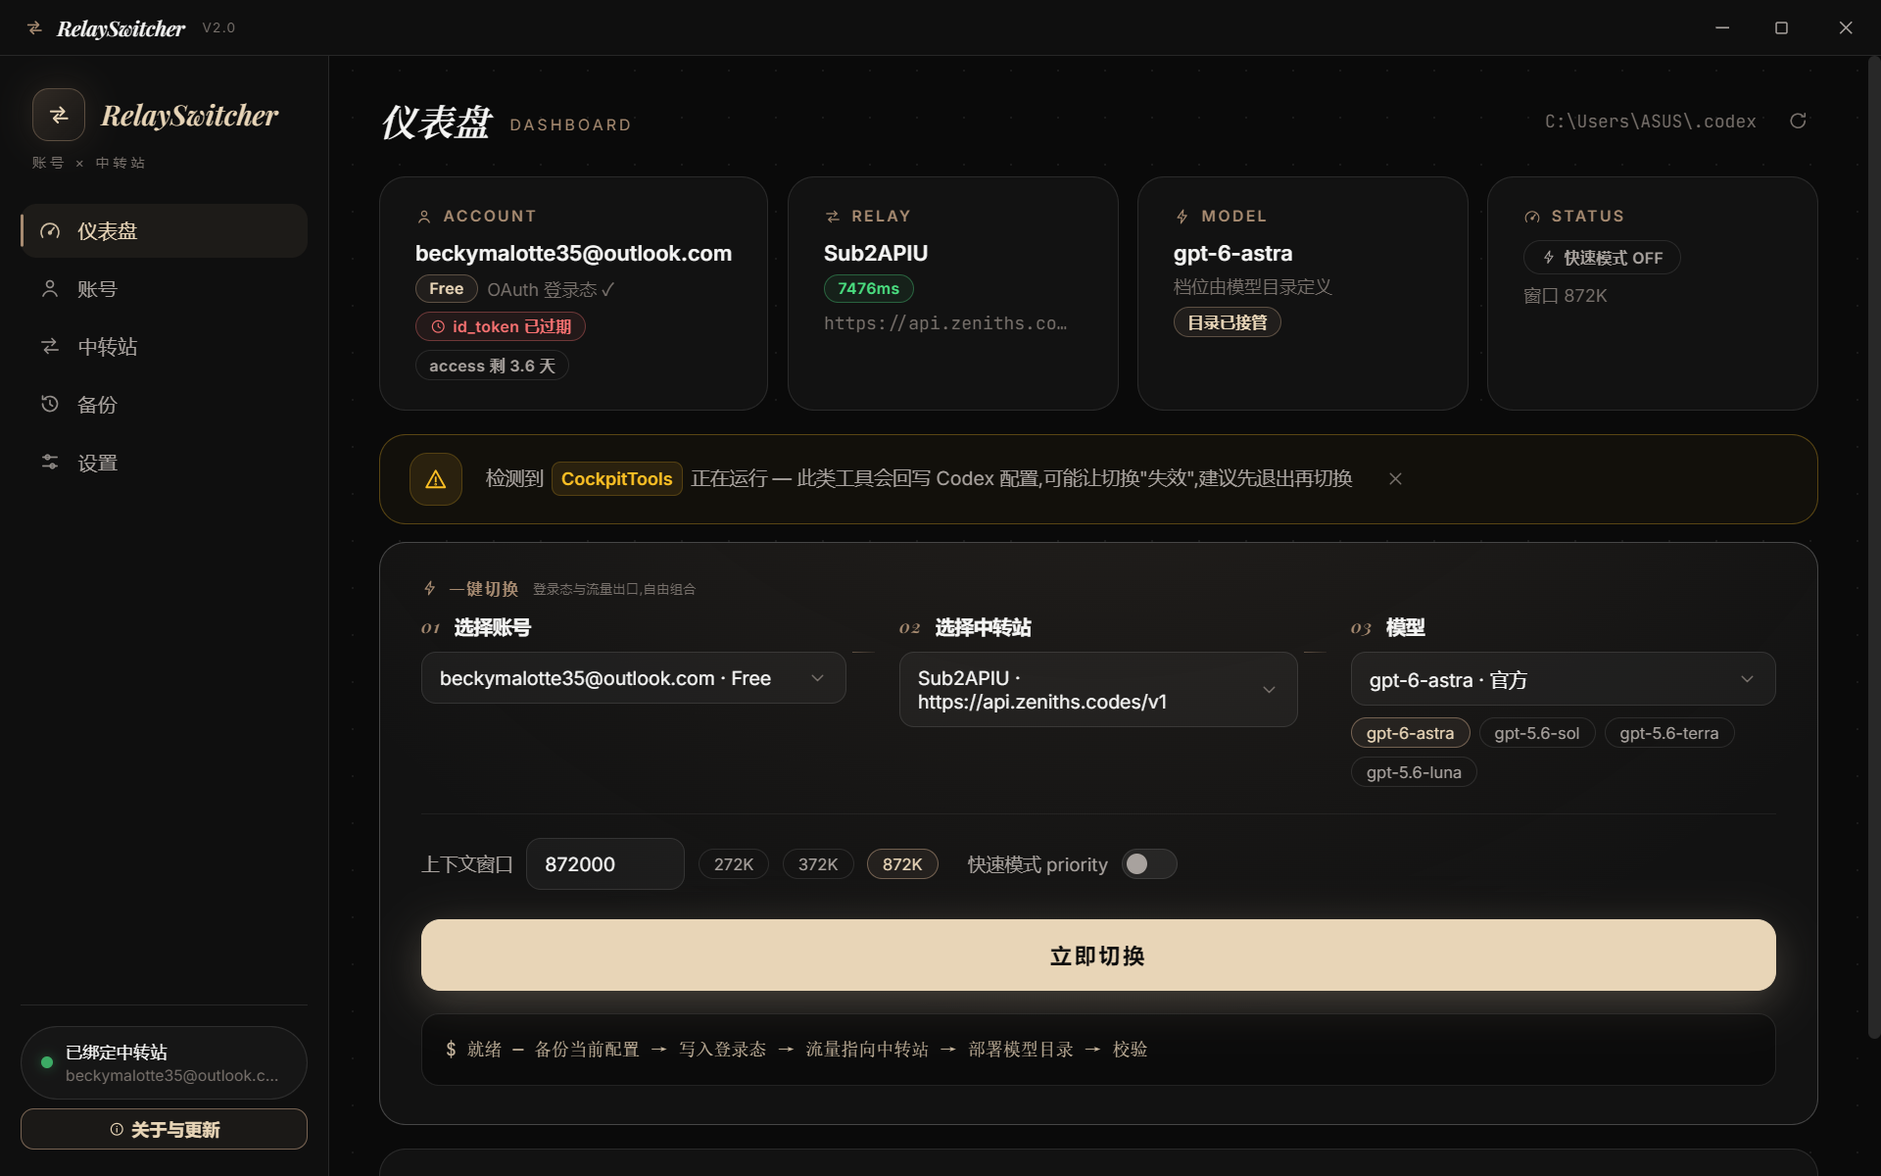
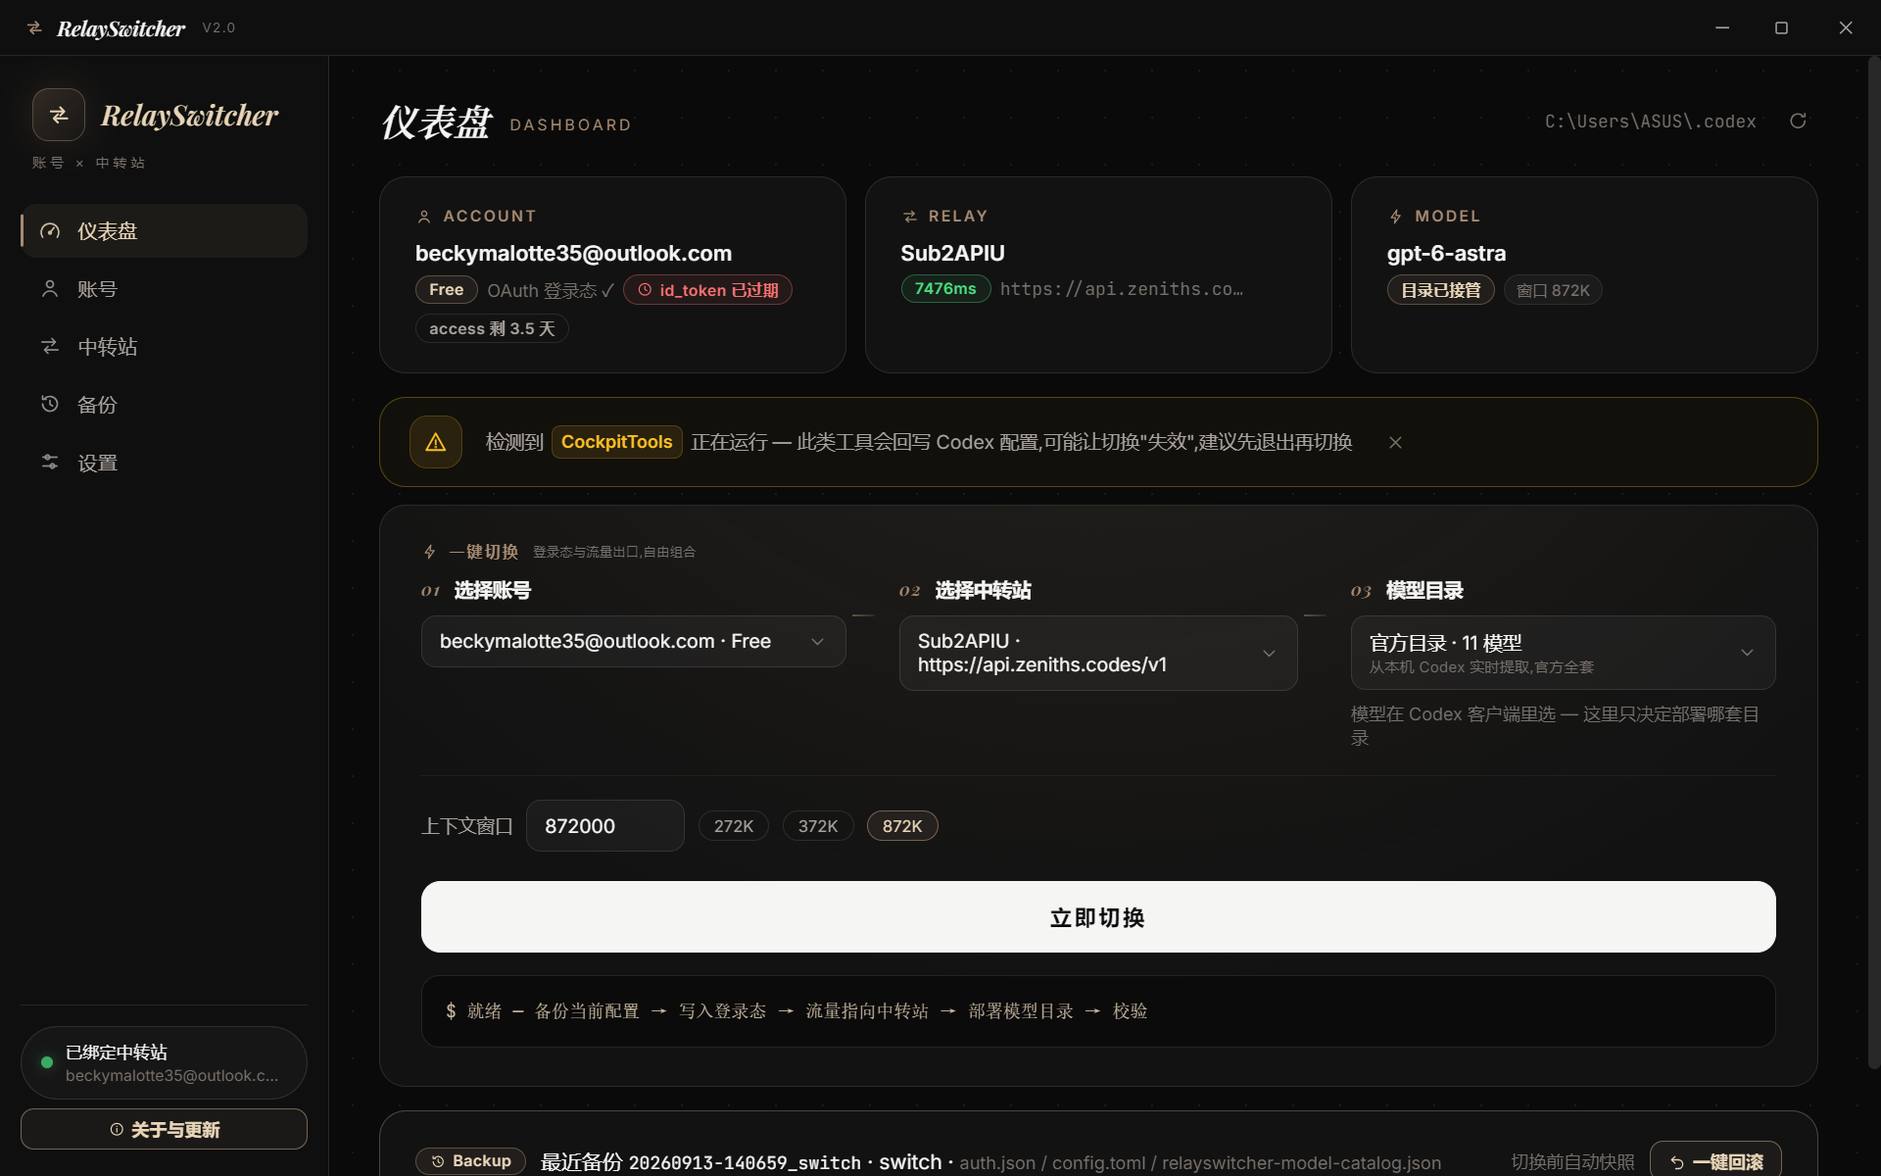
feat(v1.8.0): 切换即切目录 — 官方目录×中转目录(/v1/models 自动生成,家族模板匹配) + model 保留逻辑 + 官方目录自动跟进

diff --git a/electron/main.js b/electron/main.js
@@ -7,8 +7,9 @@ const codex = require('./lib/codex');
 const { extractTokenError } = require('./lib/oauth-errors');
 const { findRivalProcesses } = require('./lib/rival-guard');
 const { diffCatalogSlugs } = require('./lib/catalog-diff');
-const { extractToFile } = require('./lib/catalog-extract');
+const { extractToFile, locateCodexBinary } = require('./lib/catalog-extract');
 const { mergeCustomModels } = require('./lib/catalog-merge');
+const { buildRelayCatalog } = require('./lib/relay-catalog');
 
 const isDev = !!process.env.VITE_DEV;
 const SMOKE = process.argv.includes('--smoke');
@@ -58,7 +59,8 @@ function getState() {
     accounts, relays,
     settings: store.getSettings(),
     status: { ...status, activeRelay, activeAccount },
-    catalogBundled: fs.existsSync(path.join(resourcesDir(), 'model-catalog.json'))
+    catalogBundled: fs.existsSync(path.join(resourcesDir(), 'model-catalog.json')),
+    catalogCounts: { official: catalogOfficialCount() }
   };
 }
 
@@ -90,8 +92,8 @@ async function testRelay(id) {
 }
 
 /* ---------------- 一键切换 ---------------- */
-/** 目录源解析(US-01):内置快照 或 最新提取产物,再合并自定义模型(US-02) */
-function resolveCatalogContent() {
+/** 官方目录源解析:内置快照 或 最新提取产物 */
+function resolveOfficialCatalog() {
   const s = store.getSettings();
   let srcPath = path.join(resourcesDir(), 'model-catalog.json');
   if (s.catalogMode === 'extracted') {
@@ -108,8 +110,34 @@ function resolveCatalogContent() {
     } catch { /* 目录不存在,回落内置 */ }
     if (best) srcPath = best.p; // 无提取产物时静默回落内置快照
   }
-  const catalog = JSON.parse(fs.readFileSync(srcPath, 'utf8'));
-  return Buffer.from(JSON.stringify(mergeCustomModels(catalog, store.listCustomModels())));
+  return JSON.parse(fs.readFileSync(srcPath, 'utf8'));
+}
+
+/**
+ * 目录源解析(v1.8.0:切换即切目录):
+ *   official = 内置快照/最新本机提取 + 自定义模型合并
+ *   relay    = 中转站实时模型清单自动生成目录(名字家族匹配官方模板) + 自定义模型合并
+ */
+function resolveCatalogContent(choice, relayModels) {
+  const official = resolveOfficialCatalog();
+  if (choice === 'relay') {
+    return Buffer.from(JSON.stringify(mergeCustomModels(buildRelayCatalog(official, relayModels), store.listCustomModels())));
+  }
+  return Buffer.from(JSON.stringify(mergeCustomModels(official, store.listCustomModels())));
+}
+
+function catalogOfficialCount() {
+  try { return resolveOfficialCatalog().models.length; } catch { return 0; }
+}
+
+/** 拉取中转站 /v1/models 模型清单(中转目录的原料) */
+async function fetchRelayModels(relay) {
+  const headers = {};
+  if (relay.apiKey) headers['Authorization'] = 'Bearer ' + relay.apiKey;
+  const resp = await net.fetch(relay.baseUrl.replace(/\/+$/, '') + '/models', { headers, signal: AbortSignal.timeout(10000) });
+  if (!resp.ok) throw new Error('HTTP ' + resp.status);
+  const j = await resp.json();
+  return (j.data || []).map(m => m.id).filter(Boolean);
 }
 
 /** 中转站预检(US-04):轻量 /v1/models 探测,失败不阻塞切换 */
@@ -134,13 +162,15 @@ async function doSwitch(opts, event) {
     if (win && !win.isDestroyed()) win.webContents.send('rs:switch-step', { name, ok, detail });
   };
 
-  // 预检与 token 预刷新并行(bench 实测本地计算均 <2ms,切换耗时全在网络:
-  // 三步互不依赖,串行最坏 3s+20s 白等,并行后总耗时 = max(三步))
-  const [rivals, probe, refreshed] = await Promise.all([
+  // 预检/预刷新/中转模型清单并行(三步互不依赖)
+  const [rivals, probe, refreshed, relayModels] = await Promise.all([
     detectRivalTools(),
     probeRelay(relay),
     account.tokens.refresh_token
       ? refreshAccount(opts.accountId).catch(() => null)
+      : Promise.resolve(null),
+    opts.catalogChoice === 'relay'
+      ? fetchRelayModels(relay).catch(() => null)
       : Promise.resolve(null)
   ]);
   if (rivals.running) {
@@ -163,15 +193,38 @@ async function doSwitch(opts, event) {
     }
   }
 
+  // 目录生成(v1.8.0:切换即切目录)— 官方实时 / 中转清单自动生成
+  let catalogChoice = opts.catalogChoice === 'relay' ? 'relay' : 'official';
+  if (catalogChoice === 'relay' && (!relayModels || relayModels.length === 0)) {
+    sendStep('目录生成', false, '中转站模型清单拉取失败或为空 — 回落官方目录(切换继续,可回滚)');
+    catalogChoice = 'official';
+  }
+  let catalogContent;
+  try {
+    catalogContent = resolveCatalogContent(catalogChoice, relayModels);
+  } catch (e) {
+    sendStep('目录生成', false, e.message);
+    return { ok: false, error: '目录生成失败: ' + e.message };
+  }
+  if (catalogChoice === 'relay') sendStep('目录生成', true, `中转目录:${relayModels.length} 个模型(名字家族匹配官方模板,继承档位/Fast)`);
+  else sendStep('目录生成', true, '官方目录(内置快照 / 最新本机提取)');
+
+  // 目录决定 model 落点:当前模型在新目录里存在则保留(不动 Codex 客户端里的选择),
+  // 不存在才落到新目录第一个条目
+  const catObj = JSON.parse(catalogContent.toString('utf8'));
+  const slugs = new Set(catObj.models.map(m => m.slug));
+  const cur = codex.getStatus(codexHome());
+  const model = cur.model && slugs.has(cur.model) ? cur.model : catObj.models[0].slug;
+
   return codex.applySwitch({
     home: codexHome(),
     account, relay,
-    model: opts.model || 'gpt-6-astra',
+    model,
     contextWindow: opts.contextWindow != null ? opts.contextWindow : s.contextWindow,
-    fastMode: opts.fastMode != null ? opts.fastMode : s.fastMode,
+    fastMode: s.fastMode,
     providerId: s.providerId,
     catalogEnabled: s.catalogEnabled,
-    catalogContent: resolveCatalogContent(), // 目录源(内置/提取)+ 自定义模型,在主进程统一生成
+    catalogContent,
     catalogFileName: s.catalogFileName,
     pruneLocalProviders: !!s.pruneLocalProviders,
     onStep: (name, ok, detail) => sendStep(name, ok, detail)
@@ -595,6 +648,28 @@ app.whenReady().then(() => {
   setInterval(autoTokenTick, 6 * 3600 * 1000).unref?.();
   // 启动 8s 静默检查更新(失败零打扰;发现新版时侧边栏已有提示)
   setTimeout(() => checkForUpdates().catch(() => {}), 8000).unref?.();
+
+  // 官方目录自动跟进(v1.8.0):启动 15s 后检测 codex.exe 指纹(路径+大小+mtime),
+  // 变了才后台重提取 — 官方出新模型/客户端升级,用户零操作,切换自动用最新目录
+  const autoExtractIfStale = async () => {
+    try {
+      const binPath = locateCodexBinary();
+      const st = fs.statSync(binPath);
+      const fp = binPath + ':' + st.size + ':' + Math.floor(st.mtimeMs);
+      const flag = path.join(app.getPath('userData'), 'catalogs', 'last-extract.json');
+      let prev = null;
+      try { prev = JSON.parse(fs.readFileSync(flag, 'utf8')).fingerprint; } catch { /* 首次 */ }
+      if (prev === fp) return;
+      const builtin = JSON.parse(fs.readFileSync(path.join(resourcesDir(), 'model-catalog.json'), 'utf8'));
+      const fb = (builtin.models.find(m => m.slug === 'gpt-5.5') || {}).base_instructions || '';
+      const r = extractToFile(path.join(app.getPath('userData'), 'catalogs'), { fallbackInstructions: fb });
+      fs.mkdirSync(path.dirname(flag), { recursive: true });
+      fs.writeFileSync(flag, JSON.stringify({ fingerprint: fp, at: new Date().toISOString() }));
+      console.log('[auto-extract] 官方目录已同步:', r.report.modelCount, '模型,来源', r.binPath);
+      notifyStateChanged();
+    } catch (e) { console.error('[auto-extract] 同步失败(不影响使用):', e.message); }
+  };
+  setTimeout(() => autoExtractIfStale().catch(() => {}), 15000).unref?.();
 
   const iconPath = app.isPackaged
     ? path.join(process.resourcesPath, 'resources', 'icon.ico')

diff --git a/src/pages/Dashboard.jsx b/src/pages/Dashboard.jsx
@@ -1,8 +1,6 @@
 import React, { useEffect, useRef, useState } from 'react';
 import { Icon, Select, Spinner, Modal, fmtK, planLabel } from '../components/ui.jsx';
 
-const QUICK_MODELS = ['gpt-6-astra', 'gpt-5.6-sol', 'gpt-5.6-terra', 'gpt-5.6-luna'];
-const DEFAULT_MODELS = ['gpt-6-astra', 'gpt-5.6-sol', 'gpt-5.6-terra', 'gpt-5.6-luna', 'gpt-5.5', 'gpt-5.4', 'gpt-5.4-mini', 'gpt-5.2'];
 const CTX_PRESETS = [272000, 372000, 872000];
 
 const lifeStr = (ms) => {
@@ -17,7 +15,7 @@ export default function Dashboard({ state, refresh, toast, goto }) {
   const { accounts, relays, settings, status } = state;
   const [accountId, setAccountId] = useState('');
   const [relayId, setRelayId] = useState('');
-  const [model, setModel] = useState('gpt-6-astra');
+  const [catalogChoice, setCatalogChoice] = useState('official'); // 官方目录 / 中转目录(v1.8.0:切换即切目录)
   const [ctx, setCtx] = useState(872000);
   const [switching, setSwitching] = useState(false);
   const [done, setDone] = useState(null); // 'ok' | 'bad'
@@ -31,7 +29,6 @@ export default function Dashboard({ state, refresh, toast, goto }) {
 
   // 从当前状态同步默认值
   useEffect(() => {
-    setModel(status.model || 'gpt-6-astra');
     setCtx(status.contextWindow || settings.contextWindow || 872000);
   }, []); // eslint-disable-line
 
@@ -77,15 +74,7 @@ export default function Dashboard({ state, refresh, toast, goto }) {
   };
 
   const activeRelay = relays.find(r => r.id === relayId);
-  const relayModels = (activeRelay?.lastTest?.models || []).filter(m => !DEFAULT_MODELS.includes(m));
-  const modelOptions = [
-    ...DEFAULT_MODELS.map(m => ({ value: m, label: m + ' · 官方' })),
-    ...relayModels.map(m => ({ value: m, label: m + ' · 中转站' }))
-  ];
-  // 选项变化后,当前 model 不在列表里则回落官方默认,保证 state 与显示一致
-  useEffect(() => {
-    if (!modelOptions.some(o => o.value === model)) setModel(DEFAULT_MODELS[0]);
-  }, [relayId, modelOptions.length]); // eslint-disable-line
+  const relayCount = activeRelay?.lastTest?.count ?? (activeRelay?.lastTest?.models || []).length;
 
   const doSwitch = async () => {
     if (!accountId || !relayId || switching) return;
@@ -120,7 +109,7 @@ export default function Dashboard({ state, refresh, toast, goto }) {
     if (!accountId || !relayId || switching) return;
     setSwitching(true); setDone(null); setLog([]);
     try {
-      const r = await window.rs.doSwitch({ accountId, relayId, model: model.trim(), contextWindow: Number(ctx) || null });
+      const r = await window.rs.doSwitch({ accountId, relayId, catalogChoice, contextWindow: Number(ctx) || null });
       setDone(r.ok ? 'ok' : 'bad');
       if (r.ok) toast('切换完成 — 重启 Codex 客户端后生效', 'ok');
       else toast('切换失败: ' + r.error, 'bad');
@@ -230,16 +219,13 @@ export default function Dashboard({ state, refresh, toast, goto }) {
             </div>}
           </div>
           <div className="step">
-            <div className="step-head"><span className="step-num">03</span><span className="step-title">模型</span></div>
-            <Select value={modelOptions.some(m => m.value === model) ? model : modelOptions[0]?.value}
-                    onChange={setModel} disabled={switching}
-                    options={modelOptions} placeholder="选择模型…"
-                    emptyText="暂无模型 — 先去「中转站」页测试连通" />
-            <div style={{ display: 'flex', gap: 6, marginTop: 8, flexWrap: 'wrap' }}>
-              {QUICK_MODELS.map(m => (
-                <span key={m} className={'chip' + (model === m ? ' on' : '')} onClick={() => !switching && setModel(m)}>{m}</span>
-              ))}
-            </div>
+            <div className="step-head"><span className="step-num">03</span><span className="step-title">模型目录</span></div>
+            <Select value={catalogChoice} onChange={setCatalogChoice} disabled={switching}
+              options={[
+                { value: 'official', label: `官方目录 · ${state.catalogCounts?.official ?? '—'} 模型`, desc: '从本机 Codex 实时提取,官方全套' },
+                { value: 'relay', label: relayCount ? `中转目录 · ${relayCount} 模型` : '中转目录 · 实时拉取', desc: '由中转站 /v1/models 实时生成' }
+              ]} />
+            <div className="muted" style={{ marginTop: 8 }}>模型在 Codex 客户端里选 — 这里只决定部署哪套目录</div>
           </div>
         </div>
 
@@ -255,7 +241,7 @@ export default function Dashboard({ state, refresh, toast, goto }) {
         </div>
 
         <button className={'btn btn-primary btn-go' + (switching ? ' switching' : '')}
-                disabled={switching || !accounts.length || !relays.length || !model.trim()} onClick={doSwitch}>
+                disabled={switching || !accounts.length || !relays.length} onClick={doSwitch}>
           {switching ? <><Spinner size={14} /> 切换中…</> : '立即切换'}
         </button>
 

diff --git a/test/relay-catalog.test.js b/test/relay-catalog.test.js
@@ -1,0 +1,54 @@
+'use strict';
+/* Test: 中转站模型目录自动生成 — 家族模板匹配/去重/排除/兜底 */
+const { test } = require('node:test');
+const assert = require('node:assert');
+const { buildRelayCatalog, pickTemplate } = require('../electron/lib/relay-catalog.js');
+
+const BASE = {
+  generation: '2026-09-20', models: [
+    { slug: 'gpt-6-astra', display_name: 'GPT-6 Astra', base_instructions: 'ASTRA-TEXT', context_window: 872000, supported_reasoning_levels: [{ effort: 'xhigh' }], service_tiers: [{ id: 'priority' }] },
+    { slug: 'gpt-5.6-sol', display_name: 'Sol', base_instructions: 'SOL-TEXT', context_window: 372000, supported_reasoning_levels: [{ effort: 'high' }] },
+    { slug: 'gpt-5.5', display_name: 'GPT-5.5', base_instructions: 'G55-TEXT', context_window: 272000, supported_reasoning_levels: [{ effort: 'high' }] }
+  ]
+};
+
+test('gpt-6 家族命中 astra 模板(继承档位/Fast/提示词),slug 与显示名用中转站自己的', () => {
+  const cat = buildRelayCatalog(BASE, ['gpt-6.5-nova']);
+  assert.strictEqual(cat.models.length, 1);
+  const m = cat.models[0];
+  assert.strictEqual(m.slug, 'gpt-6.5-nova');
+  assert.strictEqual(m.display_name, 'gpt-6.5-nova');
+  assert.strictEqual(m.base_instructions, 'ASTRA-TEXT');
+  assert.strictEqual(m.context_window, 872000);
+  assert.ok(m.service_tiers.some(t => t.id === 'priority'), '应继承 astra 的 Fast 模式');
+});
+
+test('非官方家族(如 glm)回落默认满血模板,元数据完整', () => {
+  const cat = buildRelayCatalog(BASE, ['glm-5.3-air']);
+  assert.strictEqual(cat.models[0].base_instructions, 'ASTRA-TEXT', '默认模板应为 gpt-6-astra');
+});
+
+test('gpt-5.4 命中 5.5 模板;gpt-5.6 命中 sol 模板', () => {
+  const cat = buildRelayCatalog(BASE, ['gpt-5.4-turbo', 'gpt-5.6-luna-x']);
+  const bySlug = Object.fromEntries(cat.models.map(m => [m.slug, m]));
+  assert.strictEqual(bySlug['gpt-5.4-turbo'].base_instructions, 'G55-TEXT');
+  assert.strictEqual(bySlug['gpt-5.6-luna-x'].base_instructions, 'SOL-TEXT');
+});
+
+test('去重 + 非法 ID + 非对话类(embedding/whisper/tts)被排除', () => {
+  const cat = buildRelayCatalog(BASE, ['glm-5.3', 'glm-5.3', '', 'bad slug!', 'text-embedding-3', 'whisper-1', 'tts-1-hd']);
+  assert.deepStrictEqual(cat.models.map(m => m.slug), ['glm-5.3']);
+});
+
+test('空清单/全非法清单明确报错', () => {
+  assert.throws(() => buildRelayCatalog(BASE, []), /清单为空/);
+  assert.throws(() => buildRelayCatalog(BASE, null), /清单为空/);
+  assert.throws(() => buildRelayCatalog(BASE, ['!!!', '']), /没有可用/);
+});
+
+test('pickTemplate 家族规则独立可测', () => {
+  const avail = ['gpt-6-astra', 'gpt-5.6-sol', 'gpt-5.5'];
+  assert.strictEqual(pickTemplate('gpt-6.1', avail), 'gpt-6-astra');
+  assert.strictEqual(pickTemplate('gpt-5.5-codex', avail), 'gpt-5.5');
+  assert.strictEqual(pickTemplate('claude-opus-4', avail), 'gpt-6-astra');
+});

diff --git a/electron/lib/relay-catalog.js b/electron/lib/relay-catalog.js
@@ -1,0 +1,59 @@
+'use strict';
+/**
+ * relay-catalog.js — 从中转站 /v1/models 清单自动生成模型目录(v1.8.0)。
+ * 每个模型 ID 派生一个条目:按名字家族匹配官方模板,继承档位/Fast/提示词等
+ * 全部元数据;认不出的家族用默认满血模板。生成产物走既有部署预检
+ * (缺 base_instructions 绝不写进 CODEX_HOME — v1.4.6 事故防回归)。
+ */
+
+// 非对话类模型:进目录只会污染 Codex 选择器,直接排除
+const EXCLUDE_RE = /embedding|whisper|tts|moderation|dall-e/i;
+
+// 家族匹配:模型名 → 优先捐赠元数据的官方模板 slug(存在才用,否则回落默认)
+const FAMILY_RULES = [
+  { re: /gpt-6/i, tpl: 'gpt-6-astra' },
+  { re: /gpt-5\.6/i, tpl: 'gpt-5.6-sol' },
+  { re: /gpt-5\.5/i, tpl: 'gpt-5.5' },
+  { re: /gpt-5\.4/i, tpl: 'gpt-5.4' },
+  { re: /gpt-5|gpt-4|o3|o4|codex/i, tpl: 'gpt-5.5' }
+];
+const DEFAULT_TEMPLATE = 'gpt-6-astra';
+
+function pickTemplate(slug, availableSlugs) {
+  for (const r of FAMILY_RULES) {
+    if (r.re.test(slug) && availableSlugs.includes(r.tpl)) return r.tpl;
+  }
+  return availableSlugs.includes(DEFAULT_TEMPLATE) ? DEFAULT_TEMPLATE : availableSlugs[0];
+}
+
+/**
+ * @param {object} baseCatalog 官方目录(内置或提取),提供模板条目
+ * @param {string[]} modelIds 中转站 /v1/models 返回的模型 ID 清单
+ * @returns {object} 可直接部署的目录(仅含中转站模型)
+ * @throws 清单为空 / 全部非法 / 基座目录无条目
+ */
+function buildRelayCatalog(baseCatalog, modelIds) {
+  if (!Array.isArray(modelIds) || modelIds.length === 0) throw new Error('中转站模型清单为空,无法生成目录');
+  const bySlug = new Map(baseCatalog.models.map(m => [m.slug, m]));
+  const available = [...bySlug.keys()];
+  if (!available.length) throw new Error('基座目录为空,无法派生中转目录');
+
+  const out = { ...baseCatalog, models: [] };
+  const seen = new Set();
+  for (const id of modelIds) {
+    const slug = String(id || '').trim();
+    if (!slug || seen.has(slug)) continue;
+    if (!/^[a-z0-9][a-z0-9._\/:-]*$/i.test(slug)) continue;   // 非法 ID
+    if (EXCLUDE_RE.test(slug)) continue;                        // 非对话类
+    seen.add(slug);
+    const tpl = bySlug.get(pickTemplate(slug, available));
+    const entry = JSON.parse(JSON.stringify(tpl));
+    entry.slug = slug;
+    entry.display_name = slug; // 显示中转站自己的名字,不带模板残留
+    out.models.push(entry);
+  }
+  if (out.models.length === 0) throw new Error('中转站清单里没有可用的对话模型 ID');
+  return out;
+}
+
+module.exports = { buildRelayCatalog, pickTemplate };

diff --git a/CHANGELOG.md b/CHANGELOG.md
@@ -1,5 +1,15 @@
 # Changelog
 
+## v1.8.0 (2026-09-20) — 切换即切目录:官方目录 × 中转目录
+
+- **切换粒度从"模型"升格为"目录"**:仪表盘第三步从模型选择器改为目录选择器,每个中转站两个选项 —
+  - **官方目录**:内置快照 / 本机 Codex 提取的官方全套(档位/Fast 模式元数据完整)
+  - **中转目录**:切换时从中转站 `/v1/models` 实时拉取模型清单,自动生成目录 — 每个模型按名字家族匹配官方模板(gpt-6* 配 astra,认不出的用默认满血模板),继承档位/Fast/提示词;Codex 选择器里出现的就是中转站提供的模型
+- **模型名不再由 RS 决定**:切换时当前模型在新目录中存在则保留(不动 Codex 客户端里的选择),不存在才落新目录第一个条目
+- **官方目录自动跟进**:启动时检测 codex.exe 指纹,变了后台静默重提取 — 官方出新模型零操作
+- 中转清单拉取失败时回落官方目录并红字警告(切换继续,可回滚);非对话类模型(embedding/whisper/tts 等)自动排除
+- 切换日志新增「目录生成」步骤;新增 `electron/lib/relay-catalog.js`(单测 6 例)
+
 ## v1.7.2 (2026-09-20) — 移除快速模式 UI(归还 Codex 客户端)
 
 - **仪表盘**:删除切换面板的「快速模式 priority」开关与状态卡的快速模式显示;状态行重排为三卡(Account / Relay / Model),窗口值折进 Model 卡
